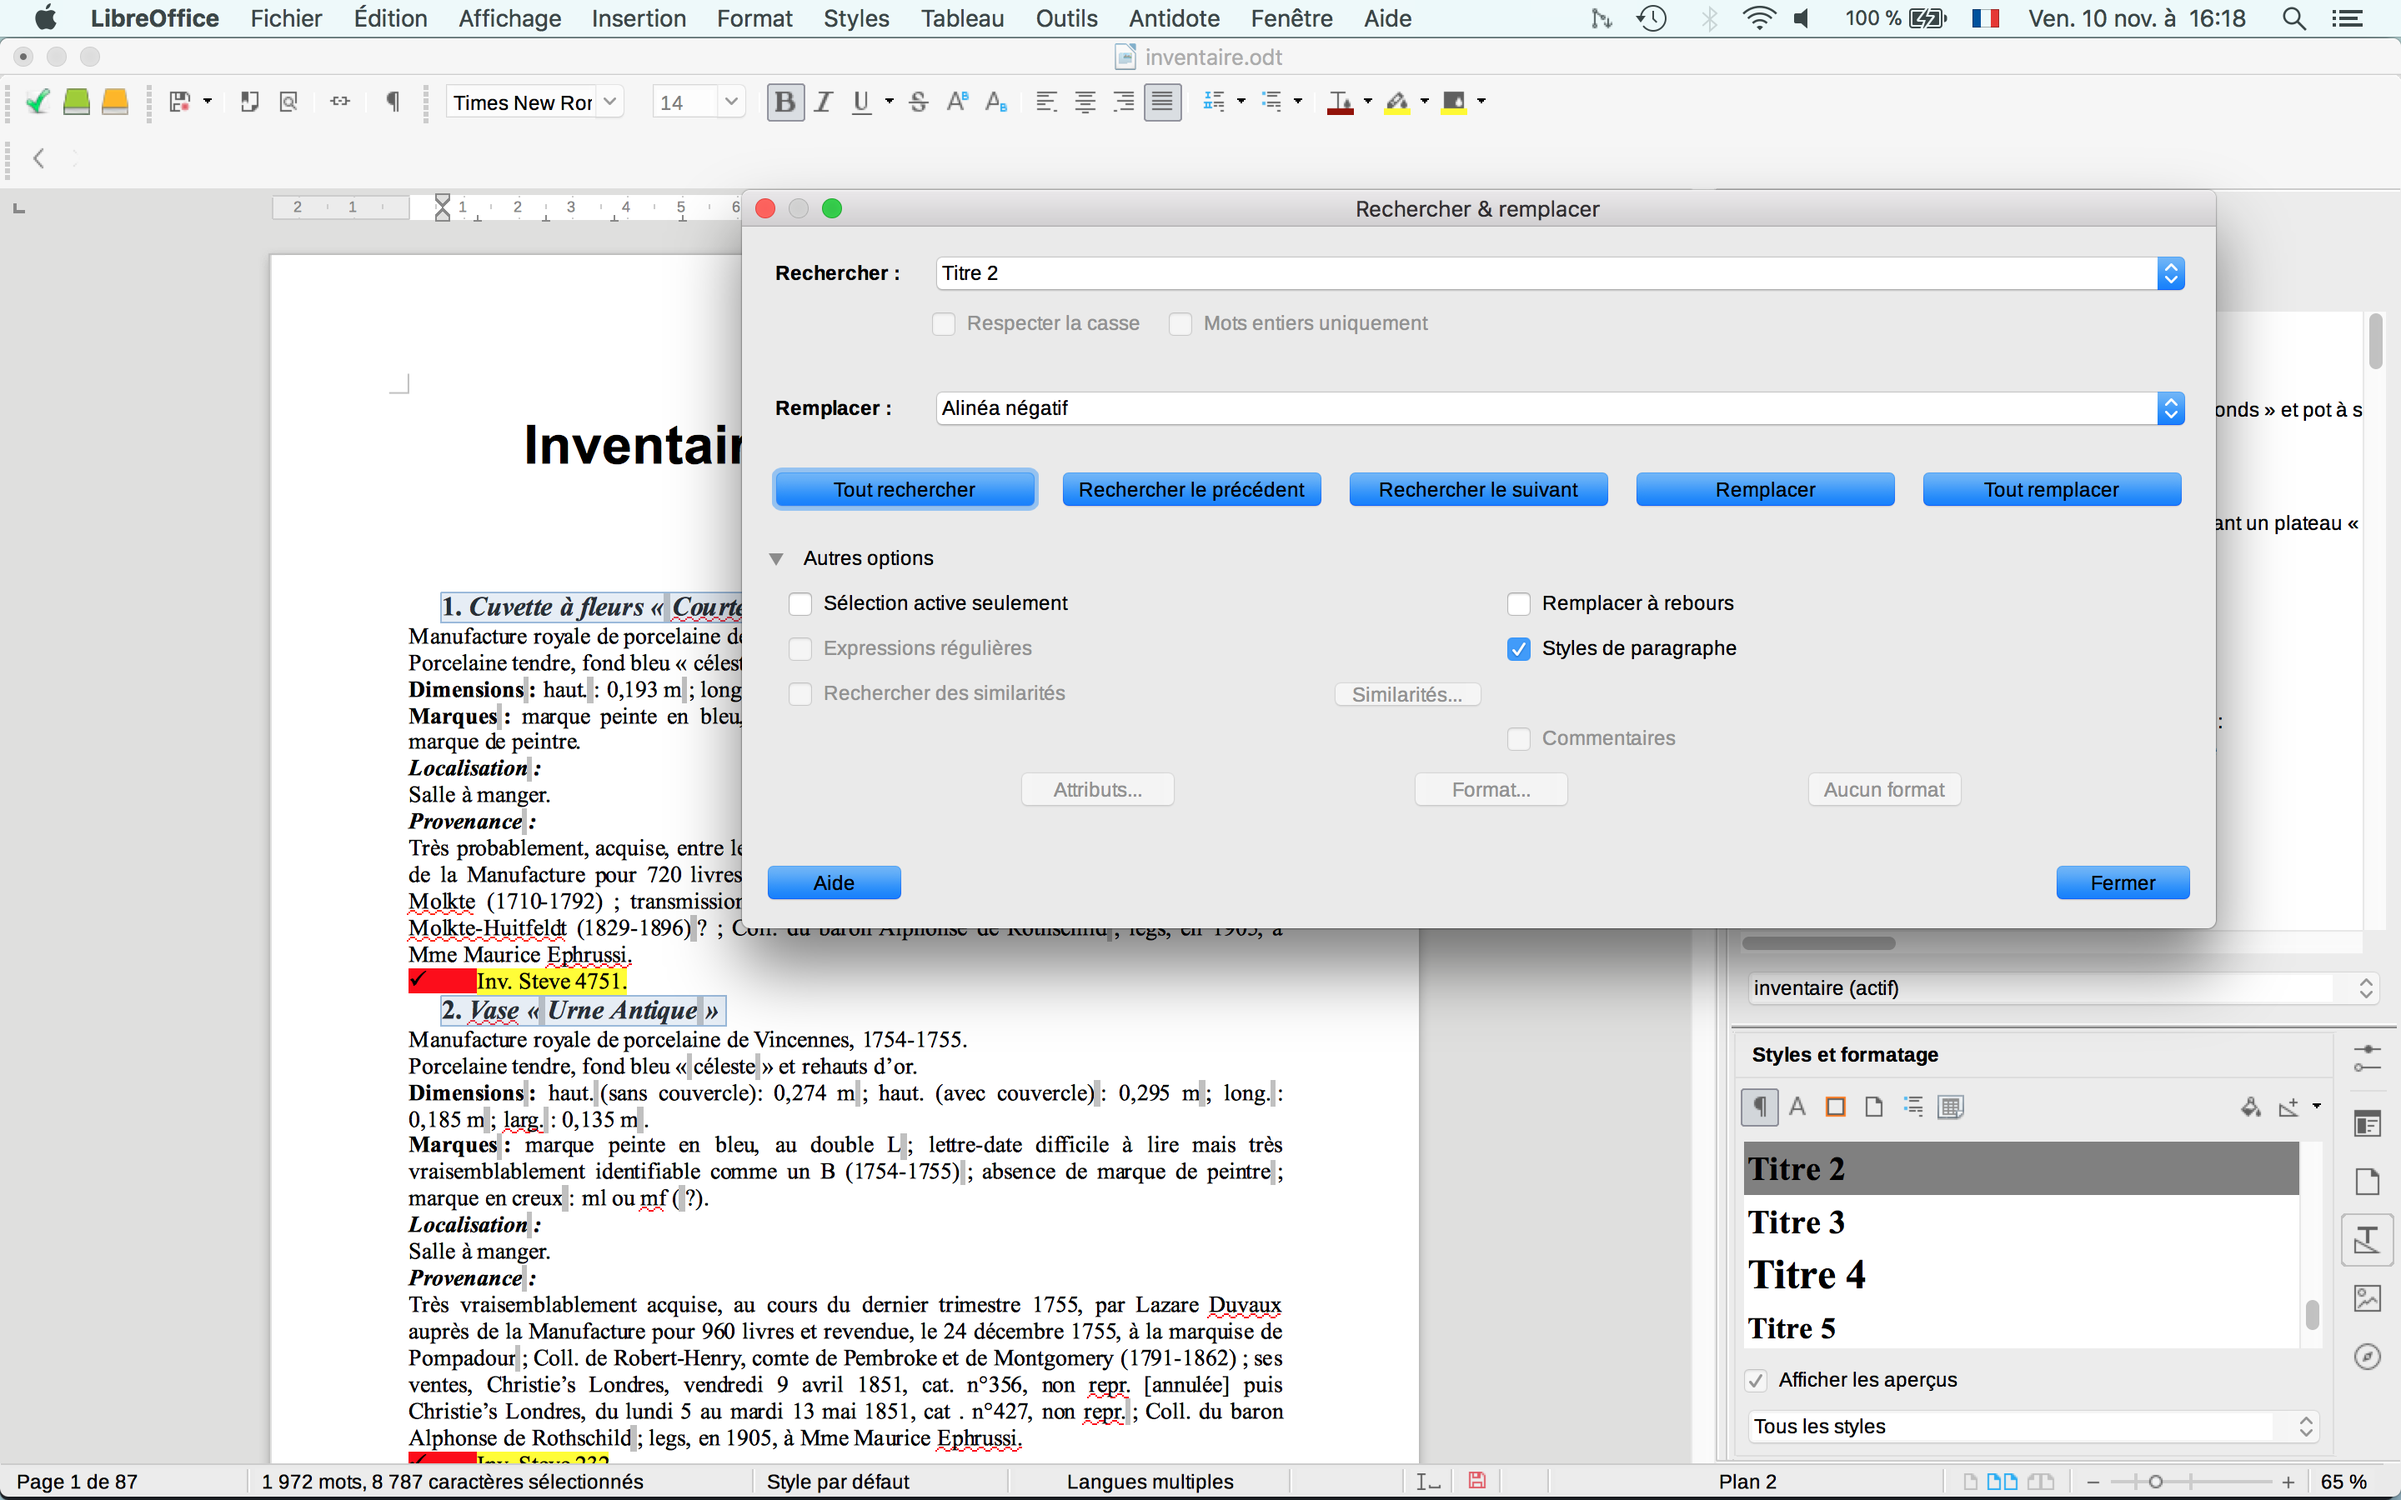
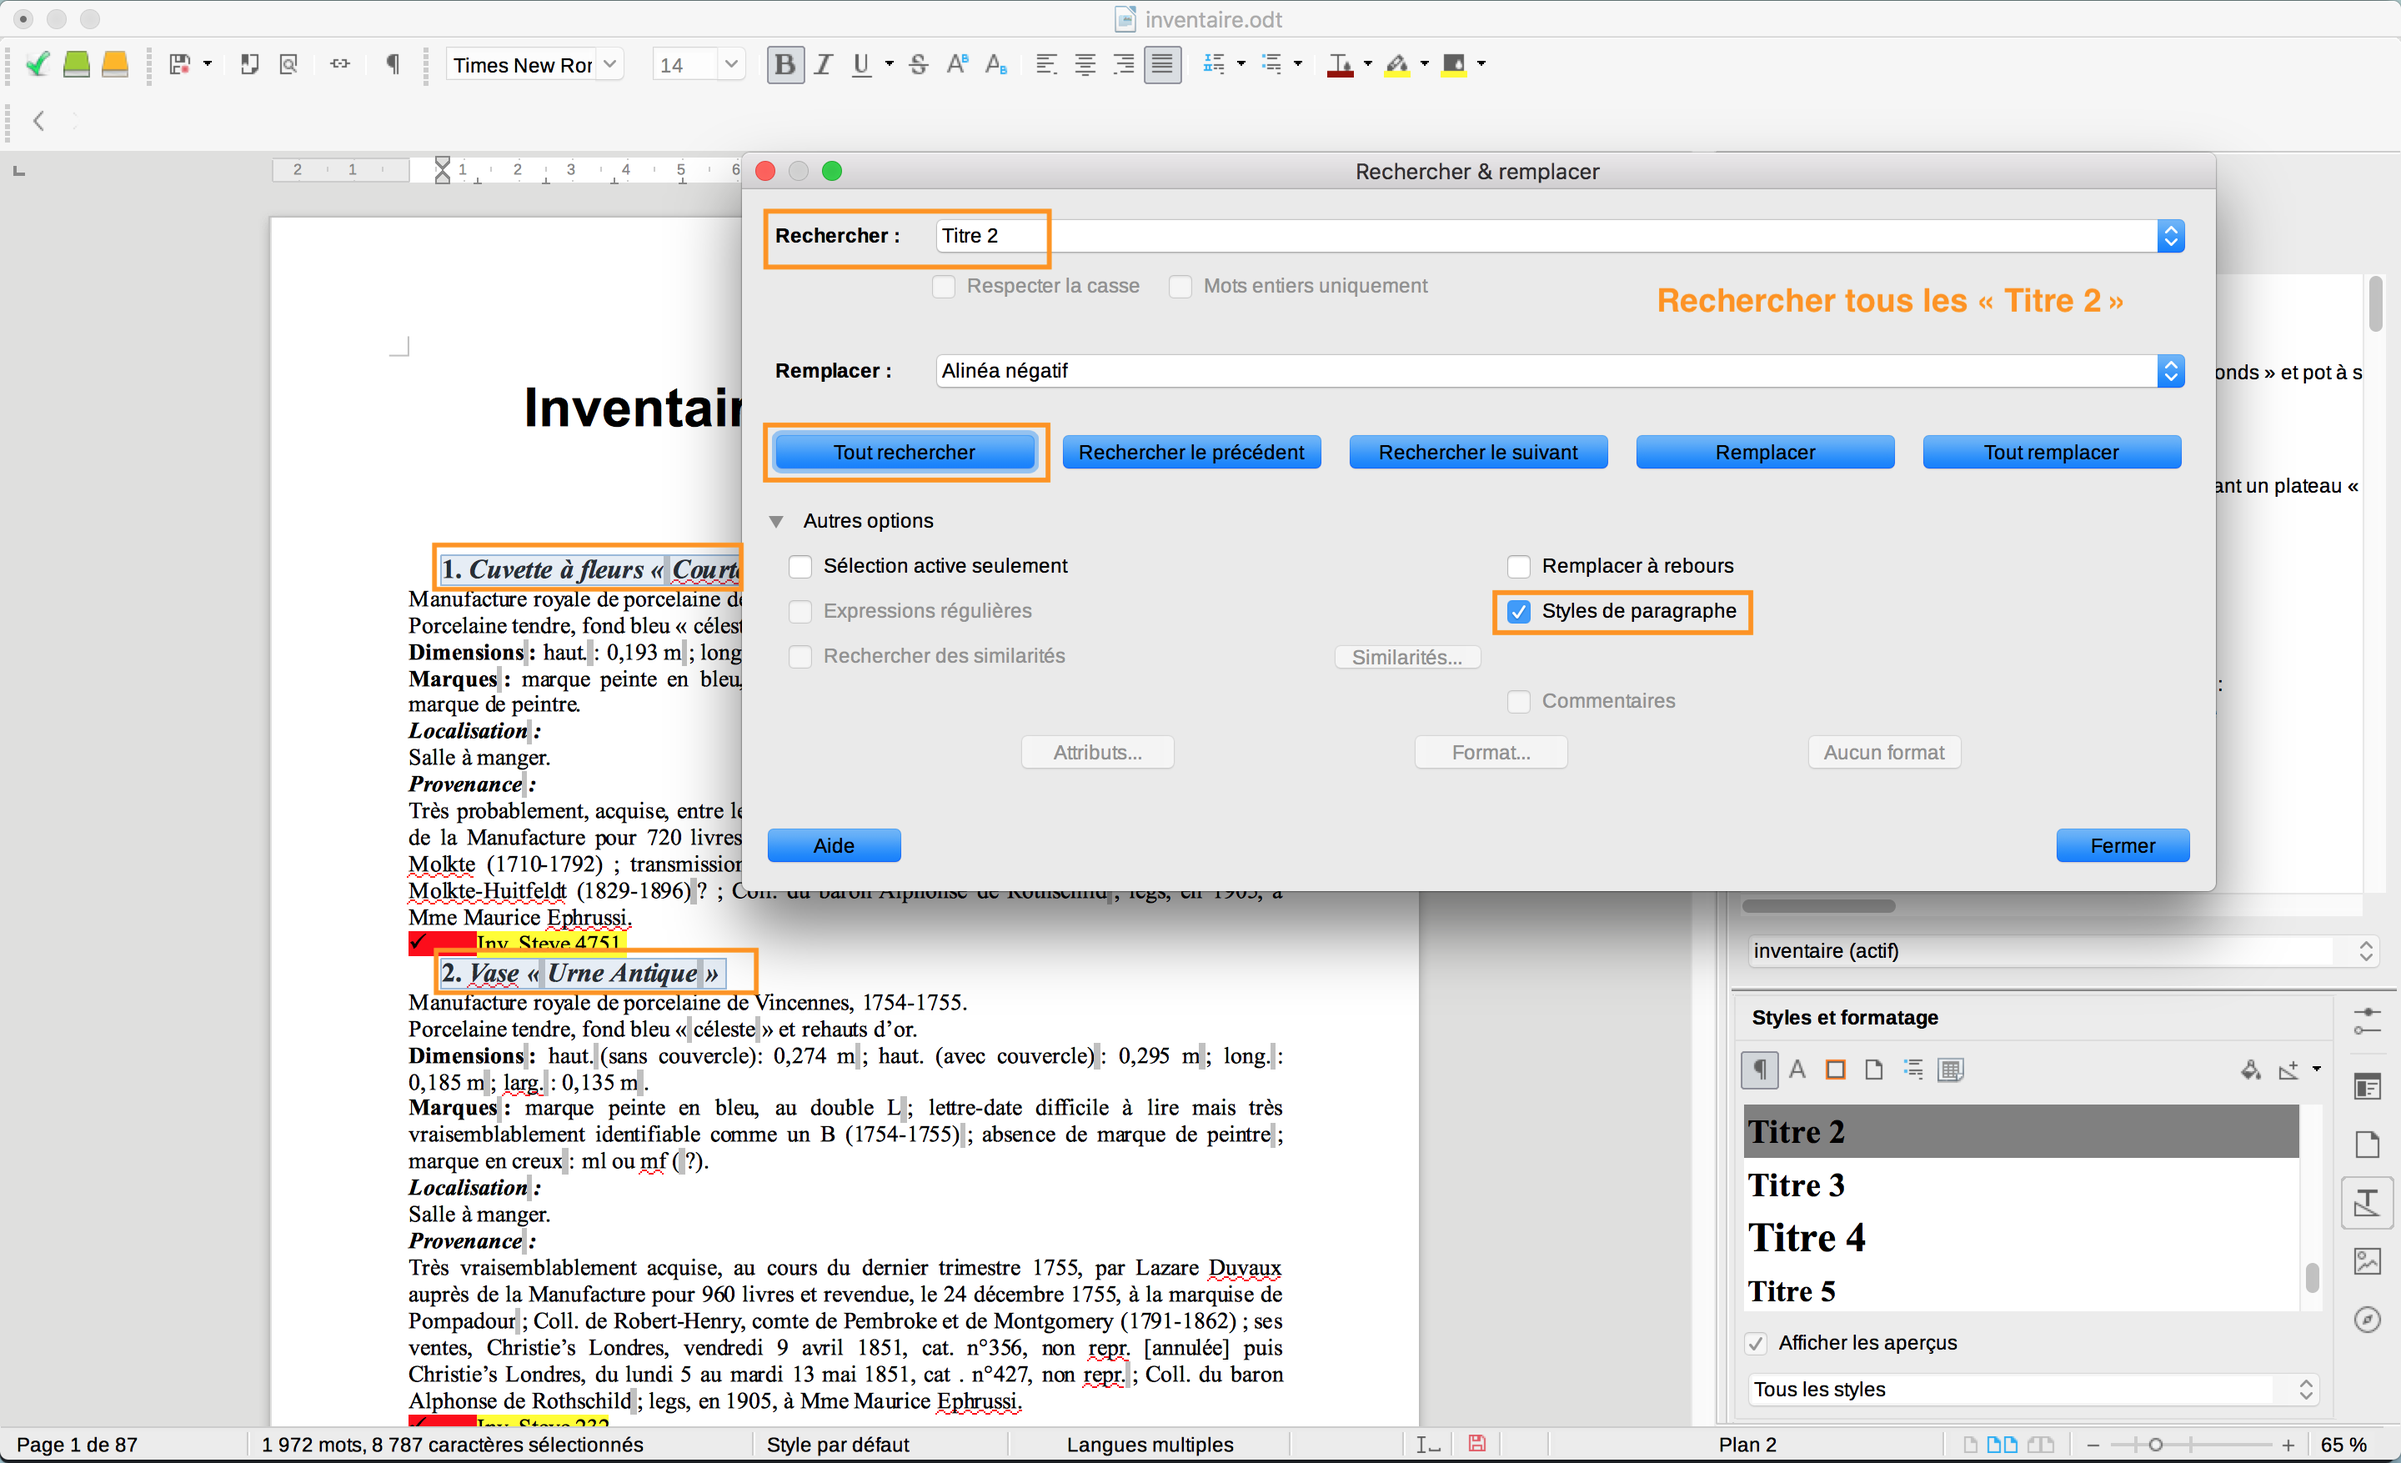
tutoriel TOC OK

diff --git a/tutoriel-writer.md b/tutoriel-writer.md
@@ -162,7 +162,7 @@ Tous les lettres (`[a-z]`), éventuellement doubles (`{1,2}`) suivis d’un poin
 * Double-cliquer sur `Titre 3` dans la fenêtre `Styles et formatage`.
 * Idem que précédemment pour supprimer la numérotation automatique attachée au style `Titre 3`.
 
-**Problème.** Certaines sous-entrées n’ont pas été identifiées car l’auteur a parfois utilisé les listes à puces pour les lister (décidément…). Pour bien faire (aboutir ce travail), il faudrait reprendre ces quelques cas manuellement !
+**Problème.** Certaines sous-entrées n’ont pas été identifiées car l’auteur a parfois utilisé les listes à puces pour les lister (décidément…). Pour bien faire (aboutir ce travail), il faudrait **reprendre ces quelques cas manuellement** !
 
 ![copie écran](./img/10-desListes.png "Certaines sous-entrées sont hélas listées…")  
 
@@ -171,29 +171,28 @@ Notre table des matières est assez satisfaisante. Il faudrait la valider manuel
 #### Numérotation automatique
 La numérotation manuelle de l’auteur est potentiellement fautive. Puisque que les entrées sont à présent bien marquées (`Titre 2`), nous pouvons utiliser les propriétés du style `Titre 2` pour numéroter automatiquement les entrées.
 
-**Suppression des numérotations manuelles**
-* Ouvrir la boîte `Chercher et remplacer…`, dans `Autres options`, cocher `Styles de paragraphe`.
-* Rechercher : sélectionner `Titre 2` dans le menu déroulant.
-* Cliquer sur `Tout rechercher` pour sélectionner tous les `Titre 2`
-* Dans `Autres options`, décocher `Styles de paragraphe`.
-* Dans `Autres options`, cocher `Sélection active seulement` et `Expressions régulières` pour ne faire un cherche-remplace que dans la sélection des `Titre 2`établie précédemment.
-* Rechercher : `^[0-9]+\. *`  
+**1. Suppression des numérotations manuelles** (Regex + recherche contextuelle)
+1. Ouvrir la boîte `Chercher et remplacer…`, dans `Autres options`, cocher `Styles de paragraphe`.
+1. Rechercher : sélectionner `Titre 2` dans le menu déroulant.
+1. Cliquer sur `Tout rechercher` pour sélectionner tous les `Titre 2`
+1. Dans `Autres options`, décocher `Styles de paragraphe`.
+1. Dans `Autres options`, cocher `Sélection active seulement` et `Expressions régulières` pour ne faire un cherche-remplace que dans la sélection des `Titre 2`établie précédemment.
+1. Rechercher : `^[0-9]+\. *`  
   Tout les nombres (`[0-9]+`) en début de ligne (`^`) suivis d’un point (`\.`) et d’un ou plusieurs espaces optionnels (`_*`).
-* Remplacer : `laisser le champ vide`
-* Reproduire l’opération pour les `Titre 3` (rechercher `^[a-z]{1,2}\. *`)
-* Corriger manuellement les cas qui résistent (le Navigateur est une vue de contrôle utile, qui permet d’accéder directement aux items à corriger : doucle-clic sur l’item de menu à corriger).
+1. Remplacer : `laisser le champ vide`
+1. Reproduire l’opération pour les `Titre 3` (rechercher `^[a-z]{1,2}\. *`)
+1. Corriger manuellement les cas qui résistent (le Navigateur est une vue de contrôle utile, qui permet d’accéder directement aux items à corriger : doucle-clic sur l’item de menu à corriger).
 
 ![copie écran](./img/11-suppr-numerotation-1.png "Suppression de la numérotation manuelle. 1 : sélection des titres de niveau 2.")
 ![copie écran](./img/11-suppr-numerotation-2.png "Suppression de la numérotation manuelle. 2 : sélection contextuelle de la numérotation")
 ![copie écran](./img/11-suppr-numerotation-3.png "Suppression de la numérotation manuelle. 3 : numérotation supprimée")
 
-**Insérer la numérotation automatique pour les entrées d’inventaire (`Titre 2`)**
+**2. Insertion de la numérotation automatique pour les entrées d’inventaire (`Titre 2`)**
 * Dans la fenêtre `Styles et formatage`, clic droit sur `Titre 2` > `Modifier…`
 * Dans l’onglet `Plan & numérotation`, sélectionner `Numérotation 1` dans le menu déroulant `Niveau de plan`.
 * Cliquer sur `Appliquer`.
 * La numérotation apparaît dans le `Navigateur`.
 
-![copie écran](./img/10-TOCOK.png "La table des matières numérotée apparaît dans le Navigateur.")
 ![copie écran](./img/11-ajoutnumerotation.png "Ajout de la numérotation automatique sur les entrées de l’inventaire.")
 
 #### Générer la table des matières
@@ -208,12 +207,12 @@ Pour mettre à jour la table des matières (après avoir ajouté, corrigé ou su
 
 ![copie écran](./img/12-TOC-2.png "Mettre à jour la table des matières.")
 
-Nous venons de restructurer le texte de manière à rendre intelligible la structure de l’inventaire, permettre la numérotation automatique des entrées (qualité des données). Ce travail permet une validation documentaire de l’inventaire. Nous pourrions effectuer d’autres tâches grâces aux regex, par exemple la normalisation de la ponctuation qui est assez fautive..
+Nous venons de restructurer le texte de manière à rendre intelligible la structure de l’inventaire, permettre la numérotation automatique des entrées (qualité des données). Ce travail permet une validation documentaire de l’inventaire. Nous pourrions effectuer d’autres tâches grâces aux regex, par exemple la normalisation de la ponctuation qui est assez fautive.
 
 À présent nous allons exploiter cette structuration pour produire un document présentable et générer des exports (enjeux éditoriaux).
 
 # (Première) mise en forme grâce aux styles
-Il suffit d’éditer les styles `Titre 1`, `Titre 1`, `Titre 1` (Dans la fenêtre `Styles et formatage`, clic droit sur le nom du style > `Modifier…`) pour améliorer la présentation.
+Il suffit d’éditer les styles `Titre 1`, `Titre 2`, `Titre 3` (Dans la fenêtre `Styles et formatage`, clic droit sur le nom du style > `Modifier…`) pour améliorer la présentation.
 
 Les principaux paramètres sur lesquels jouer :
 * Onglet `Police` : choix de la police, graisse, taille.
@@ -227,9 +226,10 @@ Un exemple de mise en forme :
 
 ![copie écran](./img/13-presentation1.png "Exemple de mise en valeur des styles de titre.")
 
-**IMPORTANT.** Si la modification des styles n’a pas d’effet sur la mise en forme, c’est qu’un formatage local a été appliqué (par-dessus) : le formatage local correspond à toutes la mise en forme appliquées sans avoir recours aux styles, par exemple la mise en italique d’un titre sélectionné. Pour rendre la priorité au style par défaut défini dans le style appliqué, il faut effacer cette couche de formatage direct, par exemple pour les `Titre 2` :
+**IMPORTANT.** Si la modification des styles n’a pas d’effet sur la mise en forme, c’est qu’un **formatage direct** a été appliqué (par-dessus) : le formatage direct correspond à toutes la mise en forme appliquées sans avoir recours aux styles, par exemple la mise en italique d’un titre sélectionné. Pour rendre la priorité au style par défaut défini dans le style appliqué, il faut effacer cette couche de formatage direct, par exemple pour les `Titre 2` :
 * Sélectionner tous les `Titre 2`(cf  `Rechercher & remplacer`, option `styles de paragraphe`)
-* Puis dans le menu principal, en haut de la fenêtre de LibreOffice, cliquer sur `Format > Effacer le formatage direct`. Attention cette manipulation supprimer l’enrichissement typographique (italique, gras) qui a pu être ajouté ; il faut donc manipuler avec précaution (risque de perdre de l’information).
+* Puis dans le menu principal, en haut de la fenêtre de LibreOffice, cliquer sur `Format > Effacer le formatage direct`.  
+Attention cette manipulation supprime l’enrichissement typographique (italique, gras) qui a pu être ajouté ; il faut donc manipuler avec précaution (risque de perdre de l’information).
 
 Il reste pas mal de travail. Pour exploiter scientifiquement notre inventaire nous avons besoin de mieux structurer encore son contenu.
 
